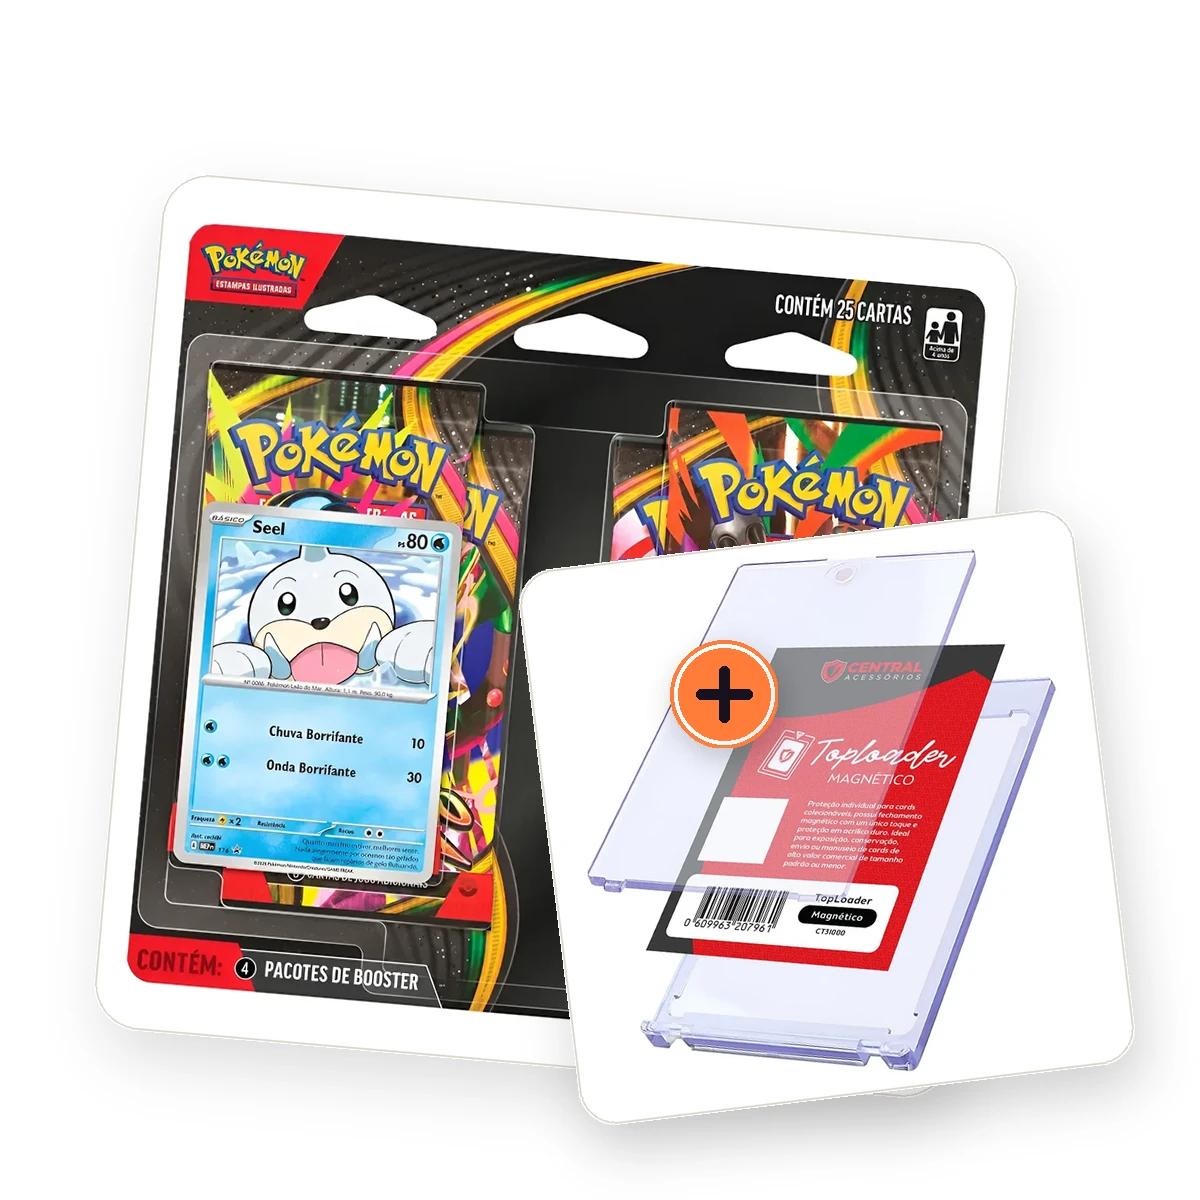
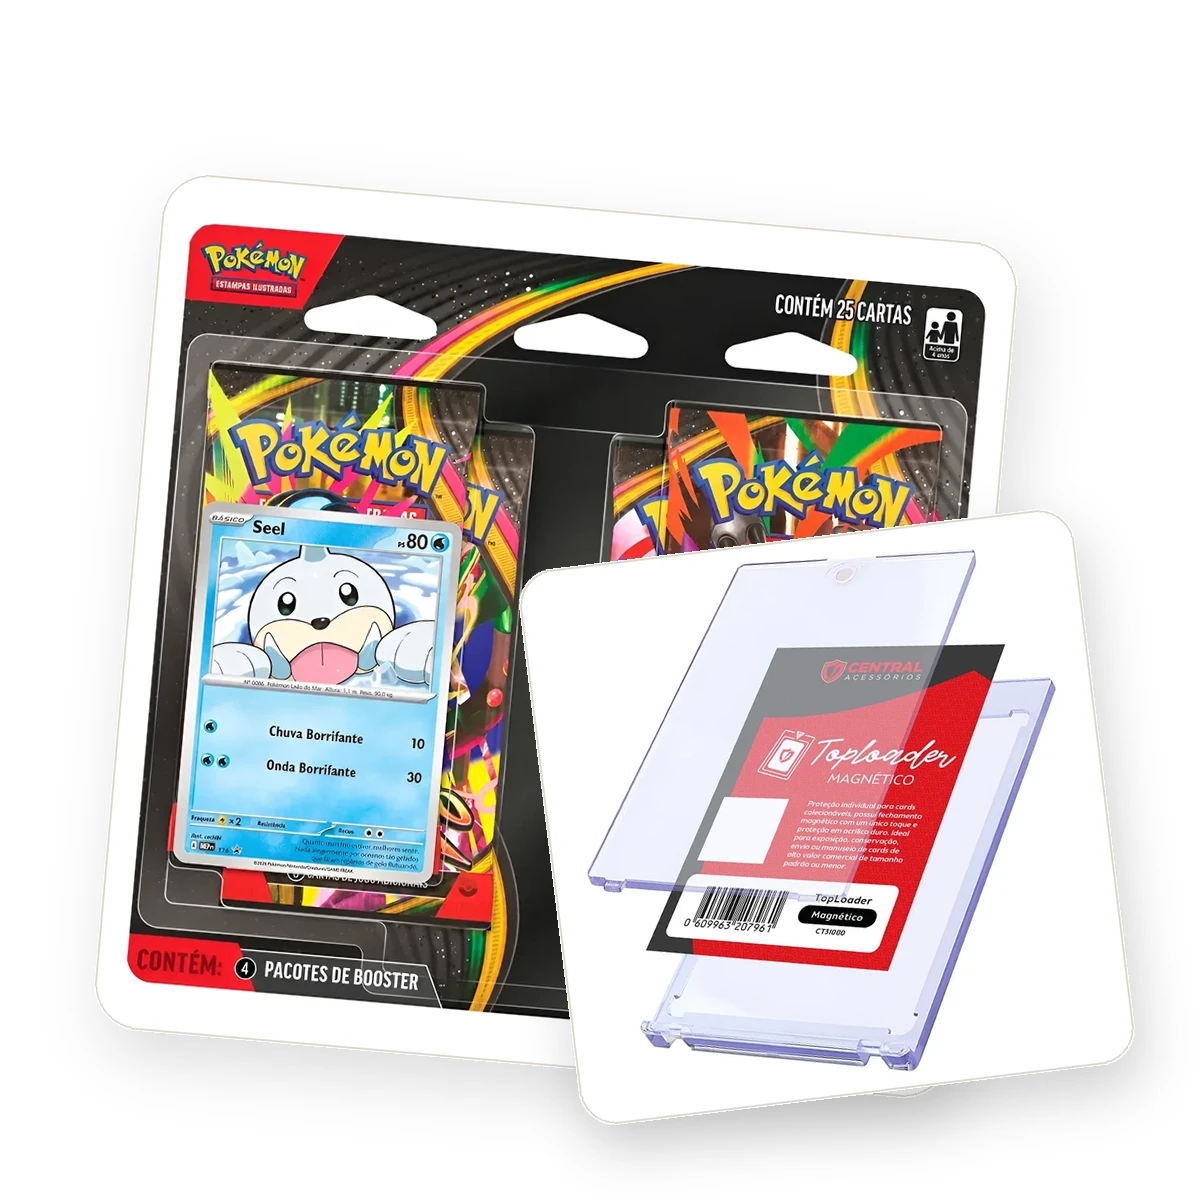
Remove o selo "+" da foto composta do Kit Presente
A pedido do Nilson, fica só a sobreposição dos dois cartões.

Claude-Session: https://claude.ai/code/session_01Jk8EXZoJ9YSmSx13zXtaQN

Changed region(s): [[0.555, 0.5242, 0.6475, 0.6475]]

diff --git a/CLAUDE.md b/CLAUDE.md
@@ -163,4 +163,4 @@ Em `.claude/skills/`: `ecommerce-visual-designer`, `digital-marketing-tcg`, `sen
 - [x] **Mini Booster Box (18 boosters) de Reinado Delta voltou ao estoque (22/11/2026)**: `estoque` em `js/produtos.js` passou de `0` pra `10` (quantidade confirmada pelo Nilson) — o produto deixa de aparecer como "Esgotado" e volta a poder ser adicionado ao pedido (até 10 unidades). Triple Pack continua esgotado (pendência em aberto, ver acima).
 - [x] **Fundo do tema claro trocado pra branco puro (22/11/2026)**, a pedido do Nilson ("deixar o fundo da versão clara branco, exatamente da cor de fundo dos produtos"): `--color-bg` em `css/style.css` (bloco `:root[data-theme="light"]`) saiu de `#F7F4EF` (bege claro) pra `#FFFFFF`, igual a `--color-surface` e a `--color-mat` (o fundo branco por trás das fotos de produto) — os três tokens agora são o mesmo branco. O fundo escuro fixo da vitrine (hero) não muda com o tema, como já era (ver pendência/nota mais acima). Testado com Playwright (mobile e desktop, tema claro ativado): cabeçalho, busca e cards se fundem no mesmo branco, bordas (`--color-border`) continuam visíveis separando os elementos, zero erros de console.
 - [x] **Case Magnético 4 mm ganhou foto real e virou "Toploader Magnético" (23/11/2026)**: o Nilson mandou a foto oficial do produto (embalagem "Central Acessórios"); `img` em `js/produtos.js` (sku `RD-CM`) passou de `""` pra `img/reinado-delta-toploader-magnetico.webp`. A pedido dele, o nome do produto também mudou de "Case Magnético 4 mm" pra "Toploader Magnético 4 mm" (e o Kit Presente, que citava o nome antigo, virou "Kit Presente: Quadpack + Toploader Magnético") — atualizado em `js/produtos.js` e na tabela de preços acima. Testado com Playwright: card aparece com a foto carregando (object-fit:contain na chapa clara, como os demais produtos), nome novo em ambos os produtos, preço Pix em destaque, zero erros de console.
-- [x] **Foto composta pro Kit Presente (23/11/2026)**: o Kit Presente (Quadpack + Toploader Magnético, sku `RD-KP`) não tinha foto própria (é um combo de dois produtos que já têm foto individual) — a pedido do Nilson ("faça um mix entre as fotos dos 2 produtos, tipo uma sobreposição, algo com design de qualidade"), geramos `img/reinado-delta-kit-presente.webp` programaticamente (Python/Pillow, sem IA generativa): as duas fotos reais viram "cartões" de cantos arredondados com friso fino, o Quadpack maior e girado ao fundo, o Toploader menor e girado por cima sobrepondo o canto, cada um com sombra suave própria, e um selo "+" laranja no encontro dos dois — tudo sobre fundo branco puro (`#FFFFFF`, igual ao `--color-mat` das outras fotos, pra "sumir" na mesma chapa do card). Script fica em `/tmp` (scratchpad da sessão, não versionado); se precisar refazer/ajustar o composto no futuro, é só reconstruir o mesmo processo (cartão arredondado + sombra + sobreposição) a partir das duas fotos originais em `img/`. Testado com Playwright: o card do catálogo mostra a foto carregando em tamanho real, sem cortes nem distorção, zero erros de console.
+- [x] **Foto composta pro Kit Presente (23/11/2026)**: o Kit Presente (Quadpack + Toploader Magnético, sku `RD-KP`) não tinha foto própria (é um combo de dois produtos que já têm foto individual) — a pedido do Nilson ("faça um mix entre as fotos dos 2 produtos, tipo uma sobreposição, algo com design de qualidade"), geramos `img/reinado-delta-kit-presente.webp` programaticamente (Python/Pillow, sem IA generativa): as duas fotos reais viram "cartões" de cantos arredondados com friso fino, o Quadpack maior e girado ao fundo, o Toploader menor e girado por cima sobrepondo o canto, cada um com sombra suave própria — tudo sobre fundo branco puro (`#FFFFFF`, igual ao `--color-mat` das outras fotos, pra "sumir" na mesma chapa do card). Script fica em `/tmp` (scratchpad da sessão, não versionado); se precisar refazer/ajustar o composto no futuro, é só reconstruir o mesmo processo (cartão arredondado + sombra + sobreposição) a partir das duas fotos originais em `img/`. Versão inicial tinha um selo "+" laranja no encontro dos dois cartões — **removido a pedido do Nilson** ("não gostei"), ficou só a sobreposição dos dois cartões. Testado com Playwright: o card do catálogo mostra a foto carregando em tamanho real, sem cortes nem distorção, zero erros de console.
